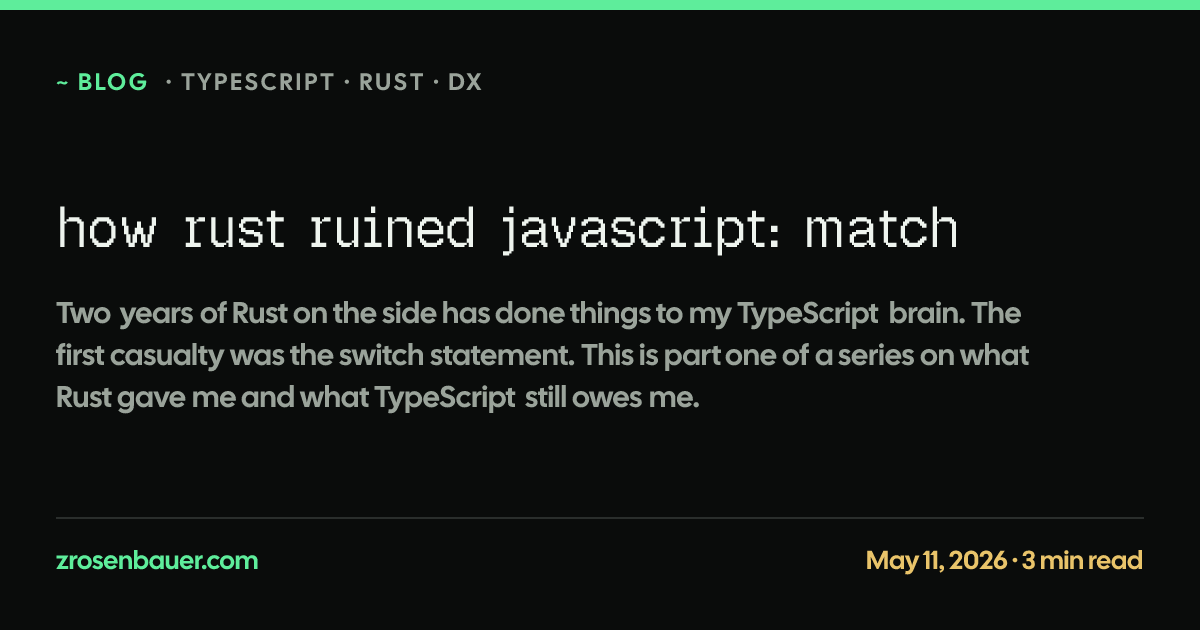
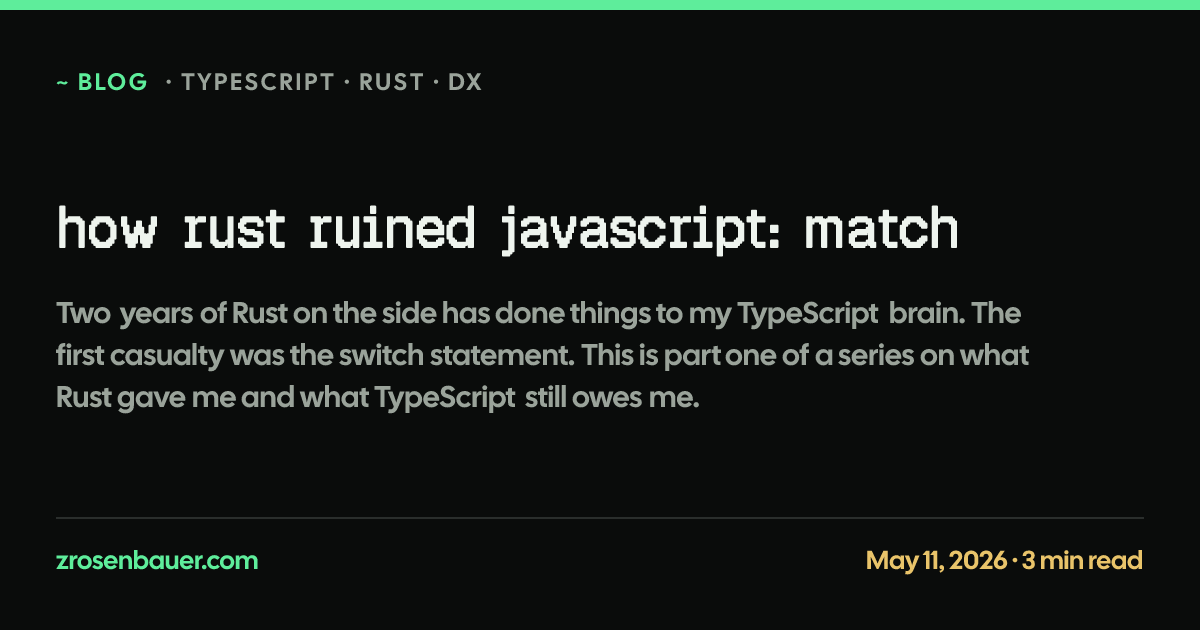
feat(og): bolder pixel headings + simpler site OG copy
- Bolden pixel headings via WebkitTextStroke (3px on site OG whoami,
  2px on blog/design/page titles). GeistPixel ships only one weight, so
  fontWeight: 700 alone doesn't synthesize; stroke fills the glyphs.
- Site OG: drop the '$' prefix from 'whoami' so the heading reads as a
  single label. Bump size to 128px.
- Replace the username + tagline echo with a single descriptive line:
  'Zac Rosenbauer — blog, open-source projects, and notes on
  TypeScript, Node, and Rust.'

Changed region(s): [[0.1542, 0.3317, 0.8017, 0.3921], [0.0308, 0.3317, 0.1233, 0.3921]]

diff --git a/scripts/og-template.tsx b/scripts/og-template.tsx
@@ -90,37 +90,34 @@ const siteTemplate = (): ReactElement => {
           display: 'flex',
           flexDirection: 'column',
           justifyContent: 'center',
-          gap: 28,
+          gap: 32,
           marginTop: 12,
         }}
       >
         <div
           style={{
             display: 'flex',
-            fontSize: 96,
+            fontSize: 128,
             lineHeight: 1.0,
             color: COLORS.fg,
             fontFamily: PIXEL_FONT,
+            fontWeight: 700,
+            WebkitTextStroke: `3px ${COLORS.fg}`,
           }}
         >
-          <span style={{ color: COLORS.primary }}>$&nbsp;</span>
-          <span>whoami</span>
+          whoami
         </div>
 
         <div
           style={{
             display: 'flex',
-            flexDirection: 'column',
-            gap: 8,
-            paddingLeft: 4,
             fontSize: 32,
-            lineHeight: 1.35,
+            lineHeight: 1.4,
+            color: COLORS.muted,
+            maxWidth: '92%',
           }}
         >
-          <span style={{ color: COLORS.fg }}>zrosenbauer</span>
-          <span style={{ color: COLORS.muted }}>
-            typescript · node · rust · purveyor of all languages
-          </span>
+          Zac Rosenbauer — blog, open-source projects, and notes on TypeScript, Node, and Rust.
         </div>
 
         <div
@@ -130,7 +127,7 @@ const siteTemplate = (): ReactElement => {
             gap: 12,
             fontSize: 32,
             color: COLORS.muted,
-            marginTop: 4,
+            marginTop: 8,
           }}
         >
           <span style={{ color: COLORS.primary }}>$</span>
@@ -216,6 +213,8 @@ const cardTemplate = (input: Exclude<OgInput, { kind: 'site' }>): ReactElement =
             lineHeight: 1.1,
             color: COLORS.fg,
             fontFamily: PIXEL_FONT,
+            fontWeight: 700,
+            WebkitTextStroke: `2px ${COLORS.fg}`,
           }}
         >
           {input.title}
